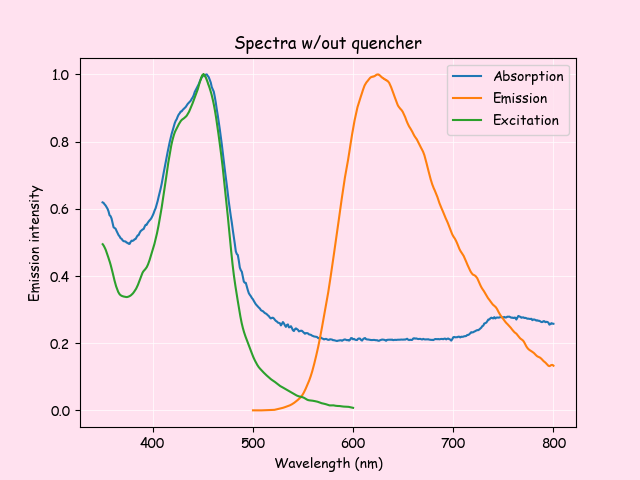
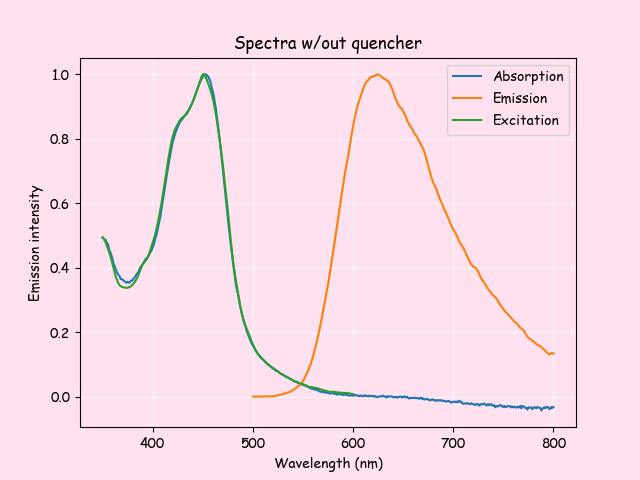
bruh

diff --git a/part1.py b/part1.py
@@ -125,9 +125,24 @@ rubpy_noq = uv_vis[:,0:2]
 sample6_noq = uv_vis[:,2:4]
 sample10_noq = uv_vis[:,4:6]
 blank = uv_vis[:,6:]
+rubpy_noq[:,1] -= blank[:,1]
+sample6_noq[:,1] -= blank[:,1]
+sample10_noq[:,1] -= blank[:,1]
 
-# for sample in samples:
-#     sample[:,1] -= sample1[:,1]
+# #normalise
+# sample1 = normalise_col(sample1)
+# sample2 = normalise_col(sample2)
+# sample3 = normalise_col(sample3)
+# sample4 = normalise_col(sample4)
+# sample5 = normalise_col(sample5)
+# sample6 = normalise_col(sample6)
+# sample7 = normalise_col(sample7)
+# sample8 = normalise_col(sample8)
+# sample9 = normalise_col(sample9)
+# sample10 = normalise_col(sample10)
+# sample11 = normalise_col(sample11)
+# sample12 = normalise_col(sample12)
+# sample13 = normalise_col(sample13)
 
 sample1, sample2, sample3, sample4, sample5, sample6, sample7, sample8, sample9, sample10, sample11, sample12, sample13 = samples
 
@@ -137,6 +152,7 @@ sample1, sample2, sample3, sample4, sample5, sample6, sample7, sample8, sample9,
 rubpy_noq = normalise_col(rubpy_noq)
 rubpy_emission = normalise_col(rubpy_emission)
 rubpy_excitation = normalise_col(rubpy_excitation)
+
 
 noq_labels = ["Absorption", ]
 plt.rcParams["font.family"] = "Comic Sans MS"
@@ -207,6 +223,7 @@ plt.axline(xy1=(0, b), slope=m, label=f'$y = {m:.8f}x {b:+.8f}$', color = "w", l
 plt.xlabel("[Fe3+]]")
 plt.legend()
 plt.ylabel("I0/I")
+# plt.xlim(0, q1_fexaxis[5])
 plt.title(f"Stern-Volmer plot for Fe3+ @ {fe_peak_wl} nm")
 plt.grid(color = 'w', linestyle = '-', linewidth = 0.5)
 plt.savefig('part1_q1_Fe.png')
@@ -228,6 +245,7 @@ m, b, *_ = stats.linregress(q1_cuxaxis, q1_cuyaxis)
 plt.axline(xy1=(0, b), slope=m, label=f'$y = {m:.8f}x {b:+.8f}$', color = "w", linestyle = "--")
 plt.xlabel("[Cu2+]")
 plt.legend()
+# plt.xlim(0, q1_cuxaxis[5])
 plt.ylabel("I0/I")
 plt.title(f"Stern-Volmer plot for Cu2+ @ {cu_peak_wl} nm")
 plt.grid(color = 'w', linestyle = '-', linewidth = 0.5)
